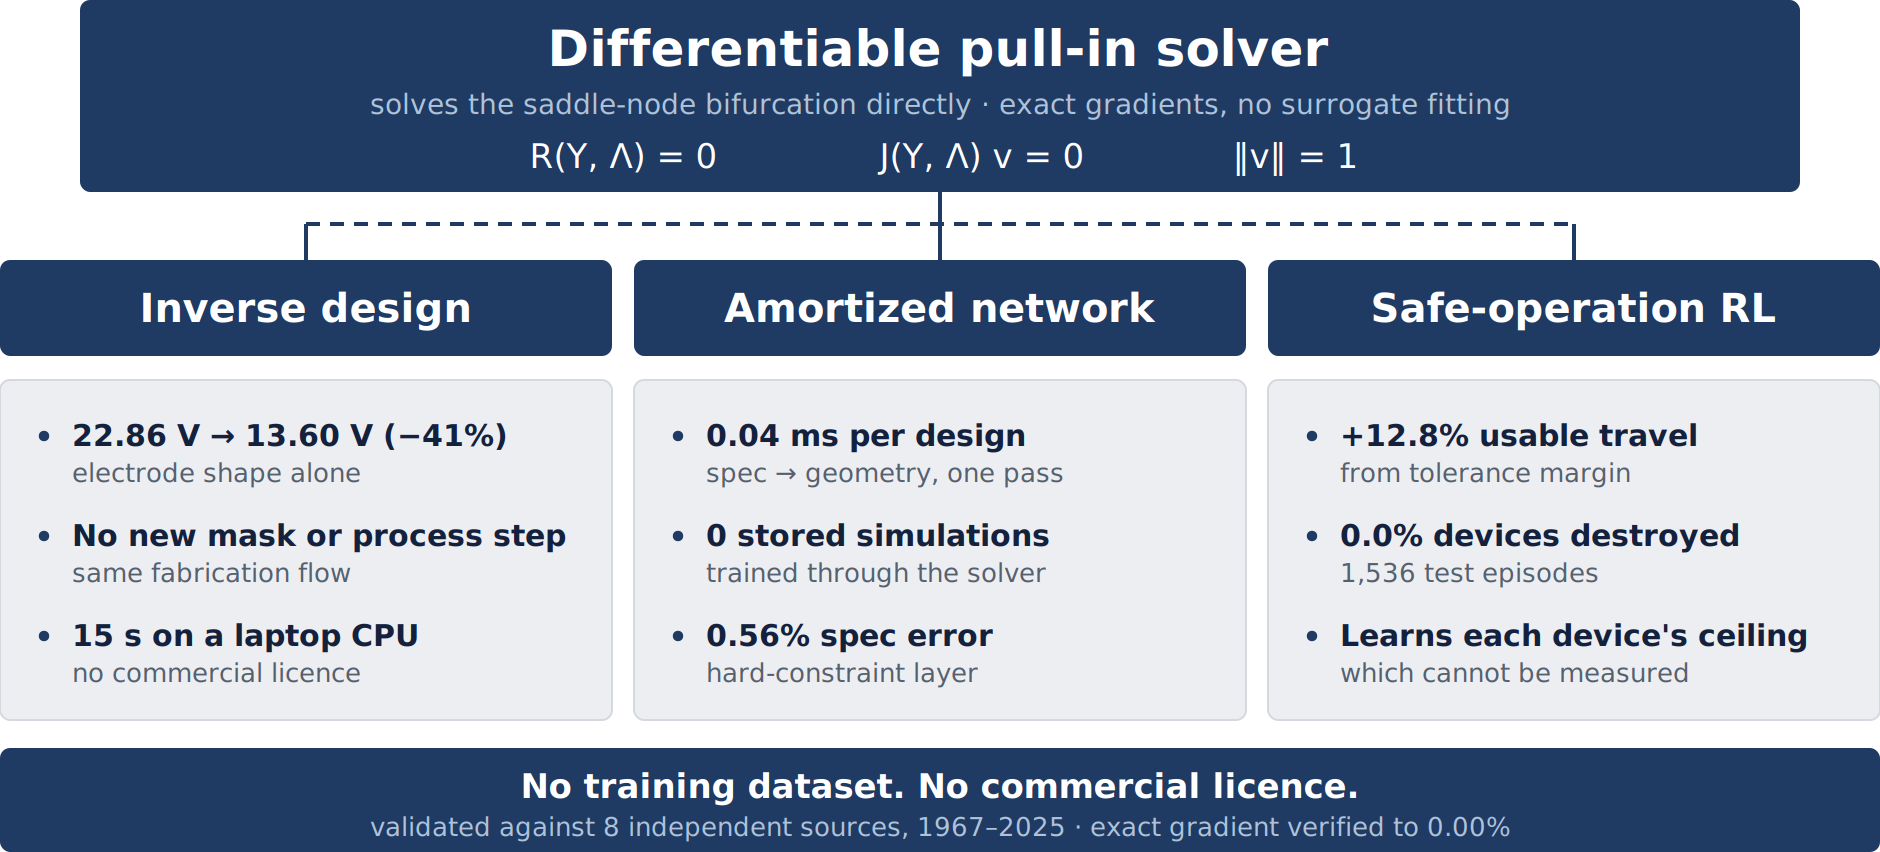
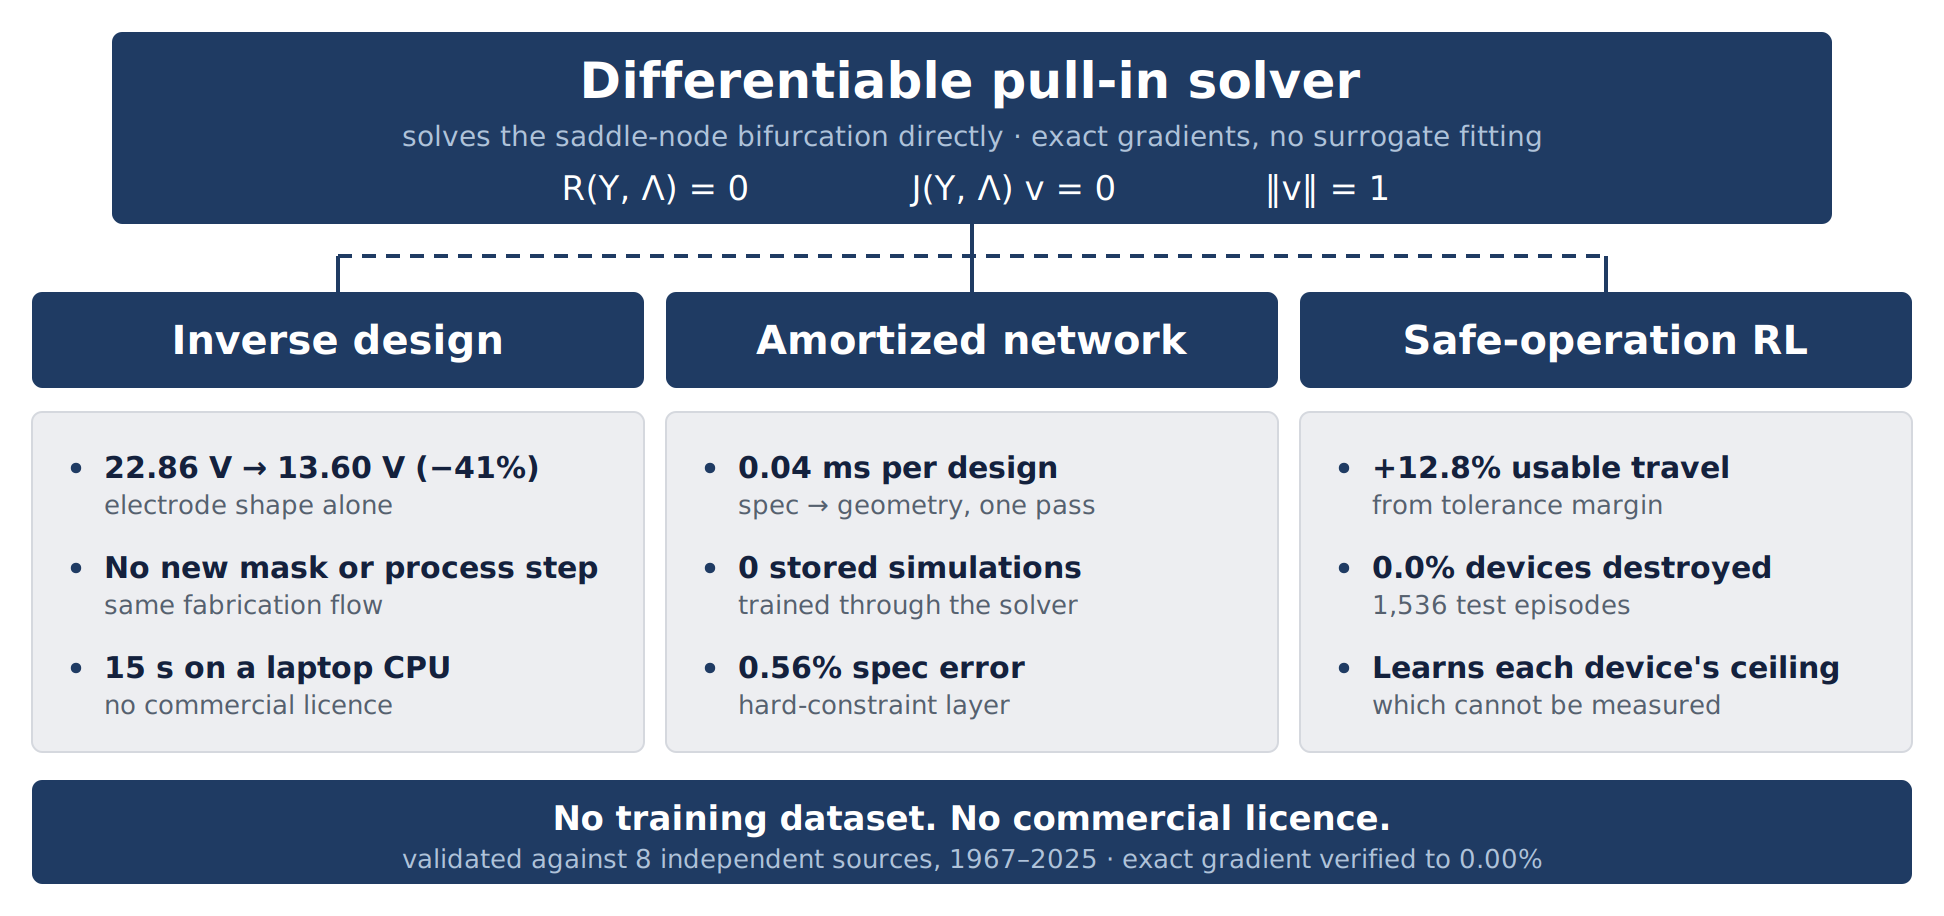
Fig. 0: inset the viewBox so nothing sits flush against the page edge
Box strokes are centred on the rectangle edge, so at x=0 half the stroke fell
outside the page and the outer cards read as clipped in a PDF viewer; in a
LaTeX float the figure would also butt straight into the body text.

Content still lays out on 0..940 x 0..426; the viewBox is now inset by 16
units on every side (-16 -16 972 458) and the background rect covers the
padded area. Measured on the generated PDF: 8.5 pt of white on all four
sides, symmetric.

diff --git a/sim/make_arch.py b/sim/make_arch.py
@@ -19,14 +19,15 @@ SRC = "../figures/Fig0_architecture.svg"
 OUT_PDF = "../figures/Fig0_architecture.pdf"
 OUT_PNG = "../figures/Fig0_architecture.png"
 
-# IEEE double-column width. The SVG viewBox is 940 units wide, so this is the
-# scale at which the font sizes in it were budgeted (15 units -> ~8.2 pt).
+# IEEE double-column width. The SVG viewBox is 972 units wide -- 940 of content
+# plus a 16-unit margin on each side -- and that is the scale the font sizes in
+# it were budgeted against (15 units -> ~8 pt).
 WIDTH_IN = 7.16
+VIEWBOX_W = 972
 
 # cairosvg's output_width is in CSS pixels at 96 dpi, NOT points. Passing
 # inches*72 silently produced a 5.37 in PDF instead of 7.16 in.
 WIDTH_PX = WIDTH_IN * 96.0
-
 
 def main():
     try:
@@ -40,7 +41,7 @@ def main():
         sys.exit(f"missing {SRC}")
 
     cairosvg.svg2pdf(url=SRC, write_to=OUT_PDF, output_width=WIDTH_PX)
-    cairosvg.svg2png(url=SRC, write_to=OUT_PNG, output_width=940 * 2)
+    cairosvg.svg2png(url=SRC, write_to=OUT_PNG, output_width=VIEWBOX_W * 2)
 
     for f in (OUT_PDF, OUT_PNG):
         print(f"  wrote {f}  ({os.path.getsize(f) / 1024:.0f} kB)")
